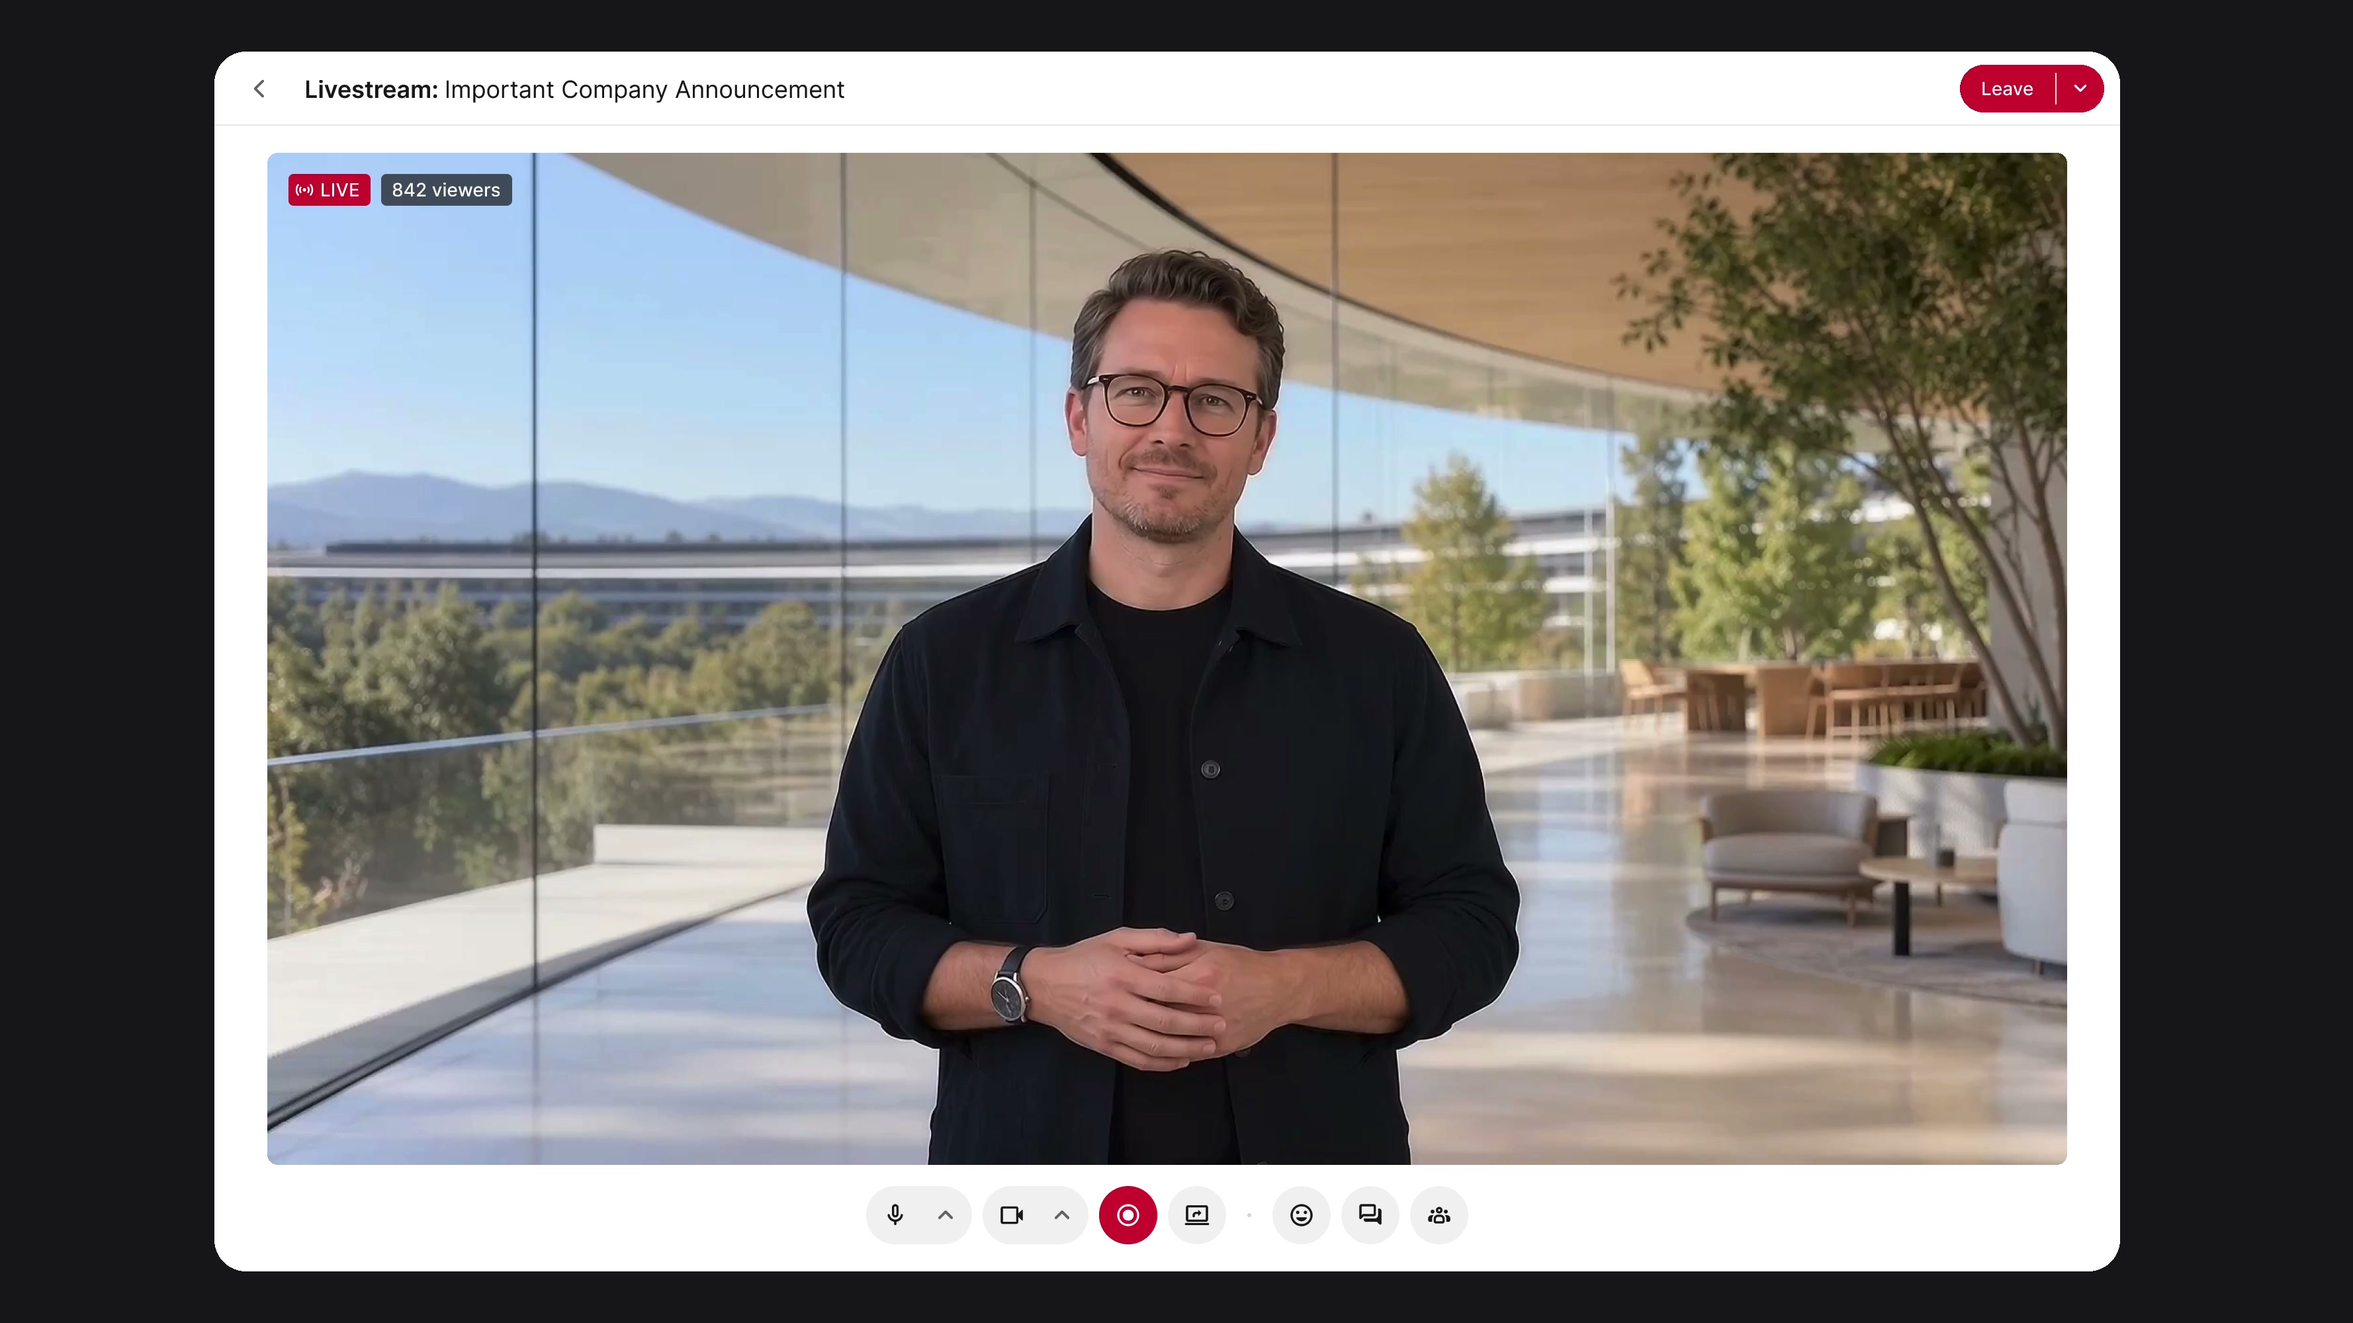
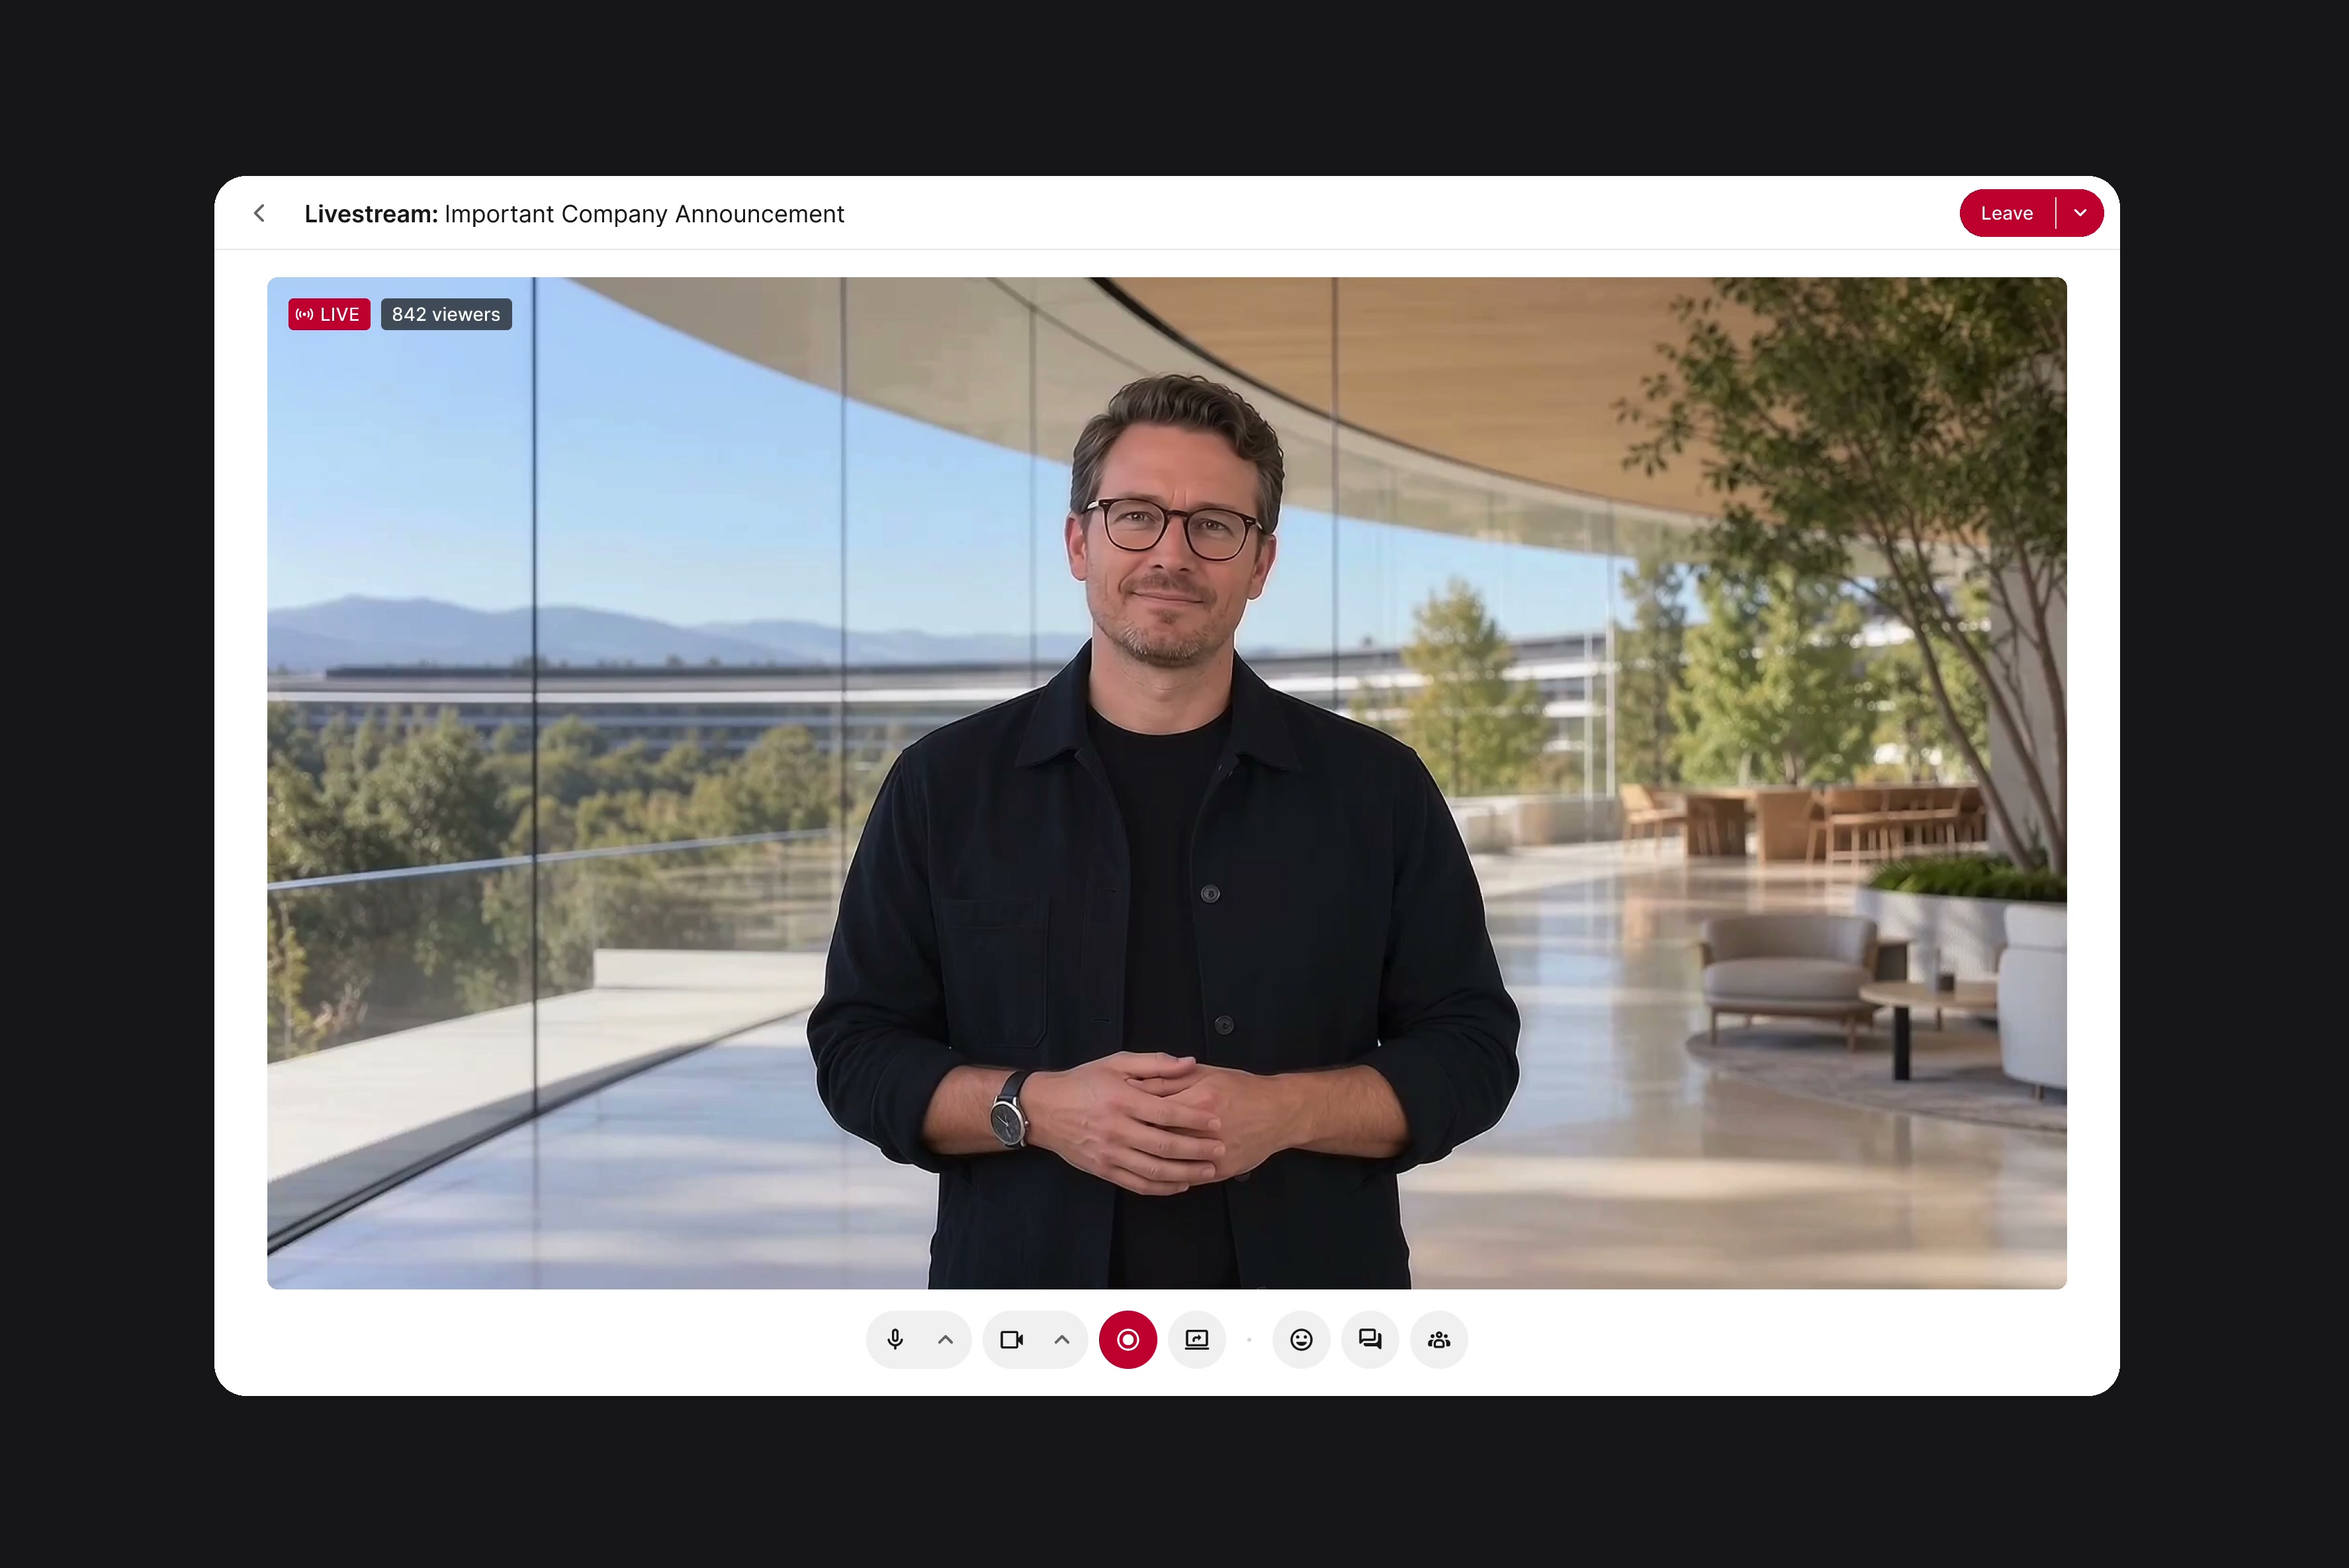
Add new work item

diff --git a/docs/video-workflow.md b/docs/video-workflow.md
@@ -78,8 +78,8 @@ play and loop while visible, and pause when offscreen or the tab is hidden.
 
 Homepage entries still live in `src/content/work/` and render directly on the
 home page. Each entry has a `title`, `year`, and `order` in its frontmatter.
-`WorkMedia` supports `aspectRatio="16 / 9"`, `"1 / 1"`, and `"2 / 3"` for both
-images and videos. Omit the prop to preserve the media's natural ratio.
+`WorkMedia` supports `aspectRatio="16 / 9"`, `"3 / 2"`, `"1 / 1"`, and `"2 / 3"`
+for both images and videos. Omit the prop to preserve the media's natural ratio.
 
 Before final media is ready, put a delivery copy in
 `public/videos/work/<project-slug>/` and use its public path:
@@ -107,7 +107,7 @@ the entry. The authored aspect ratio and poster remain unchanged. The command
 performs real uploads; local preview and build do not run it automatically.
 
 The current homepage uses responsive R2 encodes of `post.mov` and
-`details.mov` in square frames, followed by `studio.mov` in a 16:9 frame.
+`details.mov` in square frames, followed by `studio.mov` in a 3:2 frame.
 Their posters are the first decoded frame of each master. For example:
 
 ```sh

diff --git a/AGENTS.md b/AGENTS.md
@@ -18,7 +18,7 @@ This repository contains a personal portfolio designed as a product-like web int
 - Tailwind CSS 4
 - Base UI for interactive primitives
 - Lucide icons
-- Google Sans Flex typography
+- Self-hosted Inter Variable and Geist Mono typography
 - Astro Content Collections and MDX
 - pnpm
 - Cloudflare Workers Static Assets
@@ -43,7 +43,7 @@ This repository contains a personal portfolio designed as a product-like web int
 - Use blue sparingly as the primary interface accent.
 - Project imagery may use unrestricted color.
 - Use Lucide for interface icons.
-- Do not use Inter or Phosphor.
+- Do not use Phosphor.
 - Preserve visible keyboard focus and native accessibility behavior.
 - Respect prefers-reduced-motion for non-essential motion.
 
